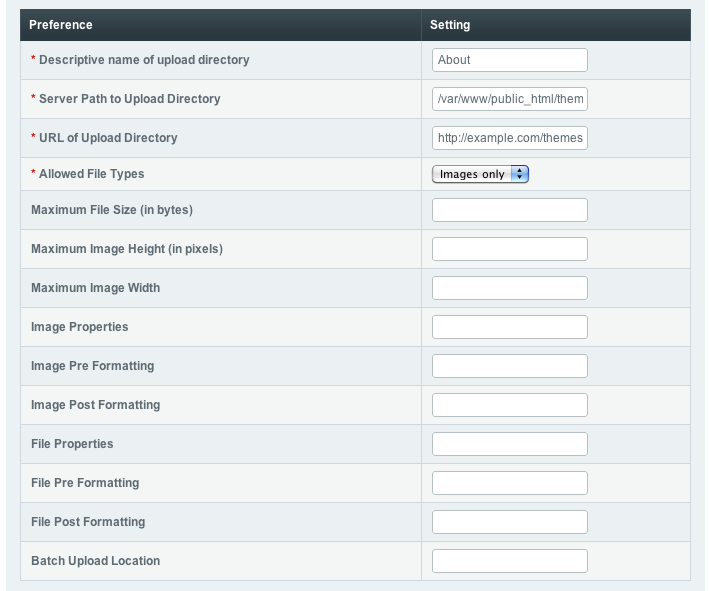
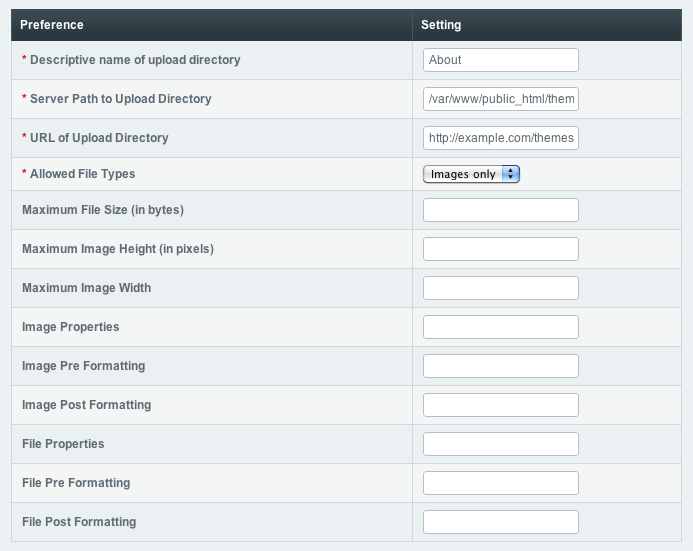
Fixed a documentation error (#16965) where the old Batch Upload Location preference was still referenced.

Changed region(s): [[0.0, 0.0, 1.0, 0.9564], [0.0303, 0.9256, 0.2424, 0.9564]]

diff --git a/source/cp/content/files/file_upload_preferences.rst b/source/cp/content/files/file_upload_preferences.rst
@@ -195,18 +195,6 @@ Together with the previous setting you would get this output::
 
 	<div class="file"><a href="http://example.com/images/upload/plan.txt" >plan.txt</a></div>
 
-Batch Upload Location
-~~~~~~~~~~~~~~~~~~~~~
-
-This is the **server path** to a directory where you can perform batch
-uploads. It is recommended that you use a *full server path* (not a
-URL), although in many cases you can use a simple *relative path*
-(Example: /home/user/example.com/http\_docs/images/uploads/).
-
-For example, you’d define a Batch Upload Location and then upload files
-to that directory. After that, you’d visit the Batch Upload page and add
-all of those files to the File Manager.
-
 File Category Groups
 ~~~~~~~~~~~~~~~~~~~~
 
